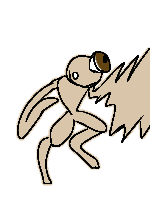
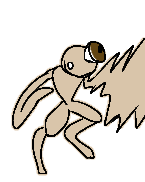
Movimentação e mais

Changed region(s): [[0.0552, 0.1923, 1.0, 0.989]]

diff --git a/script.js b/script.js
@@ -1,5 +1,23 @@
 let player;
-let playerIdle, playerRunning, playerJump, playerAttack, playerDamage, playerDefeat;
+let playerIdle, playerRunning, playerJump1, playerJump2, playerAttack, playerDamage, playerDefeat;
+let playerX, playerY;
+let playerWidth = 50;
+let playerHeight = 50;
+let speed = 10;
+let gravity = 0.8;
+let jumpForce = -20;
+let velocityY = 0;
+let onGround = false;
+
+let attacking = false;       // se o player está atacando
+let attackCooldown = 500;    // tempo entre ataques em ms
+let lastAttackTime = 0;      // última vez que atacou
+
+let damaged = false;         // se o player levou dano
+let damageCooldown = 1000;   // tempo que fica invulnerável após tomar dano
+let lastDamageTime = 0;      // última vez que levou dano
+
+let attackDuration = 300; 
 
 let enemy1, enemy1Group;
 let enemy1Idle, enemy1Running, enemy1Attack, enemy1Defeat;
@@ -9,11 +27,25 @@ let enemy2Idle, enemy2Attack, enemy2Damage, enemy2Defeat;
 
 let enemy3, enemy3Group;
 let enemy3Idle, enemy3Attack, enemy3Damage, enemy3Defeat;
+let bullet, bulletImgs;
+
+let ground, groundImg;
+let platform, platformImg;
+
+let logo, logoImg;
+
+const start = 1;
+const wave1 = 2;
+const wave2 = 3;
+const wave3 = 4;
+const end = 0
+let gameState = start;
 
 function preload() {
     playerIdle = loadAnimation("./assets/player/playerIdle.png");
     playerRunning = loadAnimation("./assets/player/playerRunning1.png","./assets/player/playerRunning2.png");
-    playerJump = loadAnimation("./assets/player/playerJump1.png", "./assets/player/playerJump1.png", "./assets/player/playerJump1.png", "./assets/player/playerJump2.png");
+    playerJump1 = loadAnimation("./assets/player/playerJump1.png");
+    playerJump2 = loadAnimation("./assets/player/playerJump2.png");
     playerAttack = loadAnimation("./assets/player/playerAttack.png");
     playerDamage = loadAnimation("./assets/player/playerDamage.png");
     playerDefeat = loadAnimation("./assets/player/playerDefeat.png");
@@ -23,7 +55,7 @@ function preload() {
     enemy1Attack = loadAnimation("./assets/enemy1/enemy1Attack1.png", "./assets/enemy1/enemy1Attack2.png", "./assets/enemy1/enemy1Attack3.png");
     enemy1Defeat = loadAnimation("./assets/enemy1/enemy1Defeat.png");
 
-    enemy2Idle = loadAnimation("./assets/enemy2/enemy2Idle1.png", "./assets/enemy2/enemy2Idle2.png");
+    enemy2Idle = loadAnimation("./assets/enemy2/enemy2Idle2.png");
     enemy2Attack = loadAnimation("./assets/enemy2/enemy2Attack1.png", "./assets/enemy2/enemy2Attack2.png", "./assets/enemy2/enemy2Attack3.png");
     enemy2Damage = loadAnimation("./assets/enemy2/enemy2Damage.png");
     enemy2Defeat = loadAnimation("./assets/enemy2/enemy2Defeat.png");
@@ -32,23 +64,129 @@ function preload() {
     enemy3Attack = loadAnimation("./assets/enemy3/enemy3Attack.png");
     enemy3Damage = loadAnimation("./assets/enemy3/enemy3Damage.png");
     enemy3Defeat = loadAnimation("./assets/enemy3/enemy3Defeat.png");
+    bulletImgs = loadAnimation("./assets/bullet1.png", "./assets/bullet2.png");
+
+    groundImg = loadImage("./assets/ground.png");
+    platformImg = loadImage("./assets/platform.png");
+
+    logoImg = loadImage("./assets/logo.png");
 }
 
 function setup() {
     createCanvas(windowWidth, windowHeight);
 
-    player = createSprite(300, 170);
+    player = createSprite(300, 662);
     player.addAnimation("p-idle", playerIdle);
     player.addAnimation("p-running", playerRunning);
-    player.addAnimation("p-jump", playerJump);
+    player.addAnimation("p-jump1", playerJump1);
+    player.addAnimation("p-jump2", playerJump2);
     player.addAnimation("p-attack", playerAttack);
     player.addAnimation("p-damage", playerDamage);
     player.addAnimation("p-defeat", playerDefeat);
     player.changeAnimation("p-idle");
+    playerX = width / 2;
+    playerY = height - playerHeight;
+
+    ground = createSprite(764, 760);
+    ground.addImage("ground", groundImg);
+    ground.scale = 1.45;
+    ground.imovable = true;
+
+    platform = createSprite(1000, 550);
+    platform.addImage("platform", platformImg);
+    platform.imovable = true;
+
+    //ground.setCollider("rectangle", 0, 0, ground.width, 30);
+    //player.setCollider("rectangle", 0, 0, player.width*0.5, player.height*1);
+
+    enemy1 = createSprite(450, 615);
+    enemy2 = createSprite(600, 632);
+    enemy3 = createSprite(750, 615);
+    enemy1.addAnimation("e1", enemy1Idle);
+    enemy2.addAnimation("e2-idle", enemy2Idle);
+    enemy3.addAnimation("e3", enemy3Idle);
+
+    logo = createSprite(730, 360);
+    logo.addImage("logo", logoImg);
+
+    enemy1Group = new Group();
+    enemy2Group = new Group();
+    enemy3Group = new Group();
 }
 
 function draw() {
-    background("red");
+    
+    //"#262121ff"
+    if(gameState === start) {
+        background("#fdefefff");
+
+        player.visible = false;
+        ground.visible = false;
+        enemy1.visible = false;
+        enemy2.visible = false;
+        enemy3.visible = false;
+
+        if(keyWentDown("space") || keyWentDown(" ")) {
+            gameState = wave1;
+        }
+    }
+
+    if(gameState === wave1) {
+        background("#262121"); // Limpa o canvas
+
+        logo.visible = false;
+        player.visible = true;
+        ground.visible = true;
+        enemy1.visible = true;
+        enemy2.visible = true;
+        enemy3.visible = true;
+
+        // --------------------------
+        // Movimento horizontal
+        // --------------------------
+        let moving = false;
+        if(keyDown(LEFT_ARROW)) {
+            player.position.x -= speed;
+            player.mirrorX(-1);
+            moving = true;
+        } 
+        if(keyDown(RIGHT_ARROW)) {
+            player.position.x += speed;
+            player.mirrorX(1);
+            moving = true;
+        }
+
+        // --------------------------
+        // Gravidade e pulo
+        // --------------------------
+        // Gravidade
+        velocityY += gravity;
+        player.position.y += velocityY;
+
+        // Colisão com o chão
+        if(player.collide(ground) || player.collide(platform)) {
+            velocityY = 0;
+            onGround = true;
+        } else {
+            onGround = false;
+        }
+
+        if(keyWentDown(UP_ARROW) && onGround) {
+            velocityY = jumpForce;
+        }
+ 
+        if(!onGround) {
+            if(velocityY < 0) {
+                 player.changeAnimation("p-jump1"); // subindo
+            } else {
+                player.changeAnimation("p-jump2"); // caindo
+            }
+        } else if(moving) {
+            player.changeAnimation("p-running");
+        } else {
+            player.changeAnimation("p-idle");
+        }
+    }
 
     drawSprites();
 }

diff --git a/style.css b/style.css
@@ -1,7 +1,12 @@
+* {
+    box-sizing: border-box;
+    image-rendering: pixelated;
+}
 body {
     margin: 0;
     padding: 0;
 }
 canvas {
     display: block;
+    
 }
